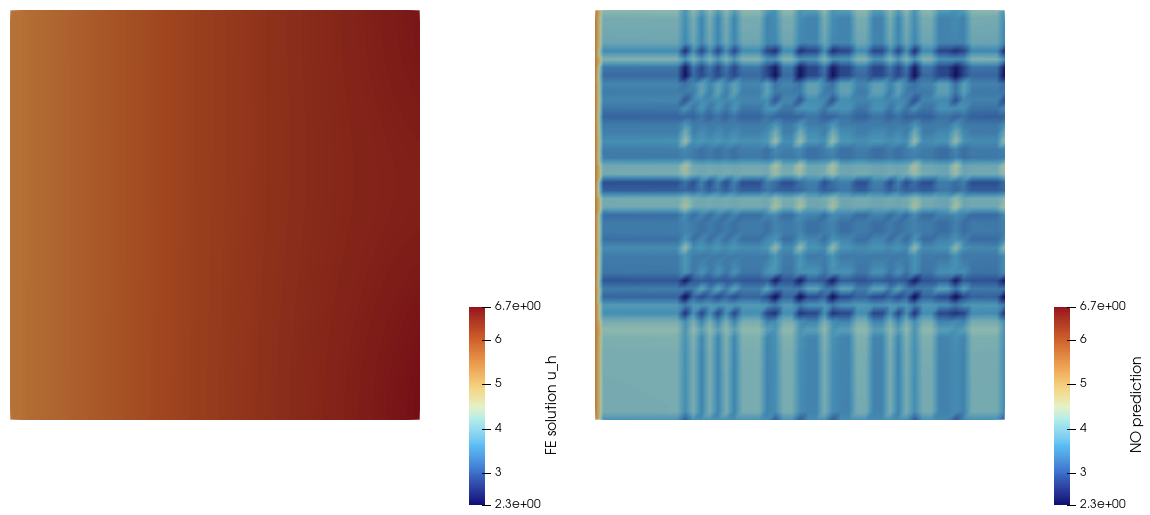
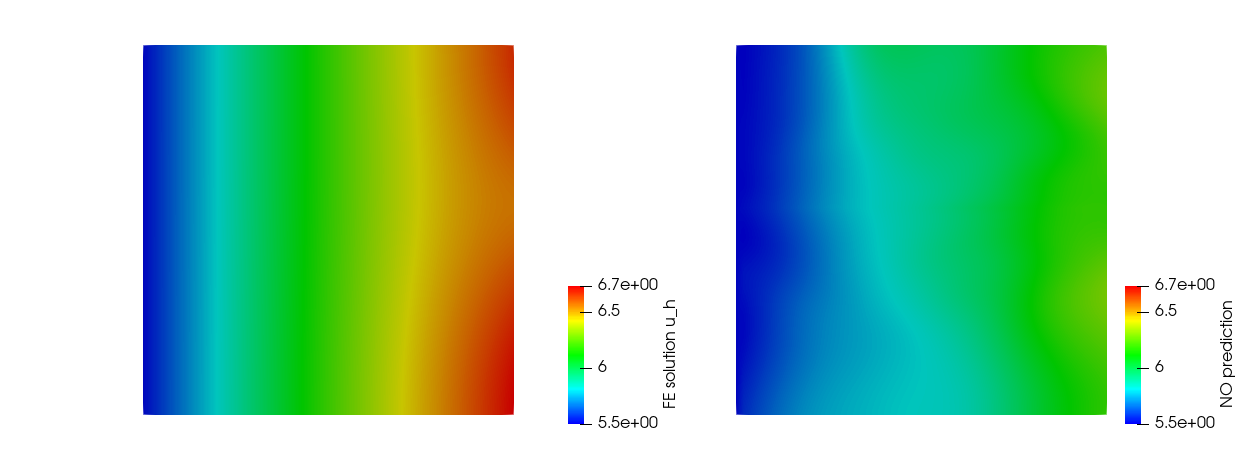
updated docs

diff --git a/README.md b/README.md
@@ -2,7 +2,7 @@
 
 | **Documentation** |
 |:------------ |
-| [![docdev](https://img.shields.io/badge/docs-dev-blue.svg)](https://nicholasmueller.co/NonlinearROMs.jl/dev/) |
+| [![docdev](https://img.shields.io/badge/docs-dev-blue.svg)](https://nichomueller.github.io/NonlinearROMs.jl/dev/) |
 | **Build Status** |
 | [![CI](https://github.com/nichomueller/NonlinearROMs.jl/actions/workflows/ci.yml/badge.svg)](https://github.com/nichomueller/NonlinearROMs.jl/actions/workflows/ci.yml) [![codecov](https://codecov.io/gh/nichomueller/NonlinearROMs.jl/branch/main/graph/badge.svg)](https://codecov.io/gh/nichomueller/NonlinearROMs.jl) |
 

diff --git a/docs/src/example.md b/docs/src/example.md
@@ -108,15 +108,11 @@ evaluate one at.
 stiffness(μ,u,v) = ∫(aμ(μ)*∇(v)⋅∇(u))dΩ
 rhs(μ,v) = ∫(fμ(μ)*v)dΩ + ∫(hμ(μ)*v)dΓn
 
-trian_res = (Ω,Γn)
-trian_stiffness = (Ω,)
-domains = FEDomains(trian_res,trian_stiffness)
-
 reffe = ReferenceFE(lagrangian,Float64,order)
 test = TestFESpace(Ω,reffe;conformity=:H1,dirichlet_tags=[1,3,7])
 trial = ParamTrialFESpace(test,gμ)
 
-feop = LinearParamFEOperator(rhs,stiffness,pspace,trial,test,domains)
+feop = LinearParamFEOperator(rhs,stiffness,pspace,trial,test)
 fesolver = LinearFESolver(LUSolver())
 ````
 
